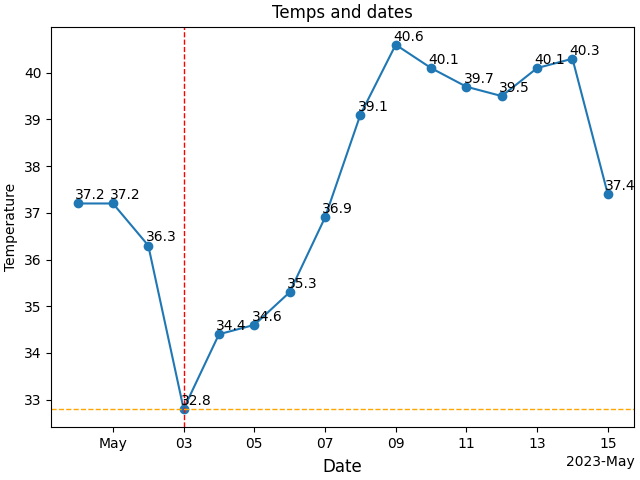
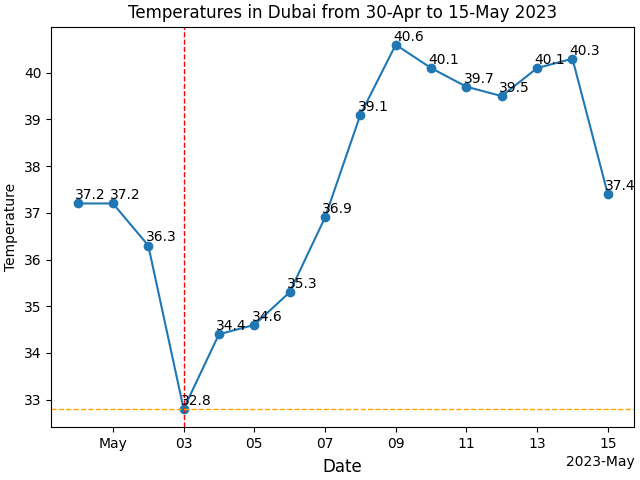
Changed plot title

Changed region(s): [[0.1875, 0.0, 0.875, 0.0625]]

diff --git a/annotated_with_lines.py b/annotated_with_lines.py
@@ -5,7 +5,7 @@ from datetime import datetime
 import matplotlib.dates as mdates
 import matplotlib.pyplot as plt
 
-# get weather data
+# get weather data: This data represents the temperatures for 15 days in dubai
 with open("json_files/dubai.json", "r") as file:
     weather = json.load(file)
 
@@ -24,7 +24,7 @@ ax.plot_date(x, y, label="Temperature", linestyle="-")
 
 ax.set_xlabel("Date", size=12, labelpad=5)
 ax.set_ylabel("Temperature")
-plt.title("Temps and dates")
+plt.title("Temperatures in Dubai from 30-Apr to 15-May 2023")
 
 lowest = min(y)
 lowest_date = weather["time"][y.index(lowest)]
